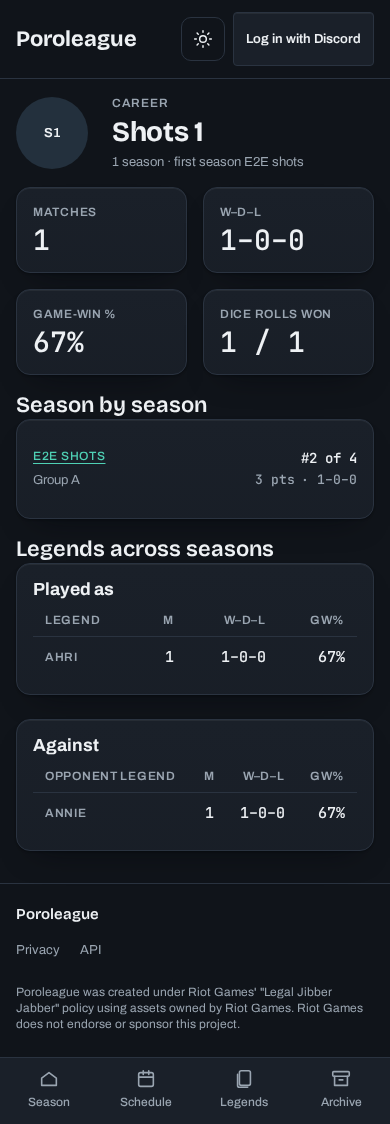
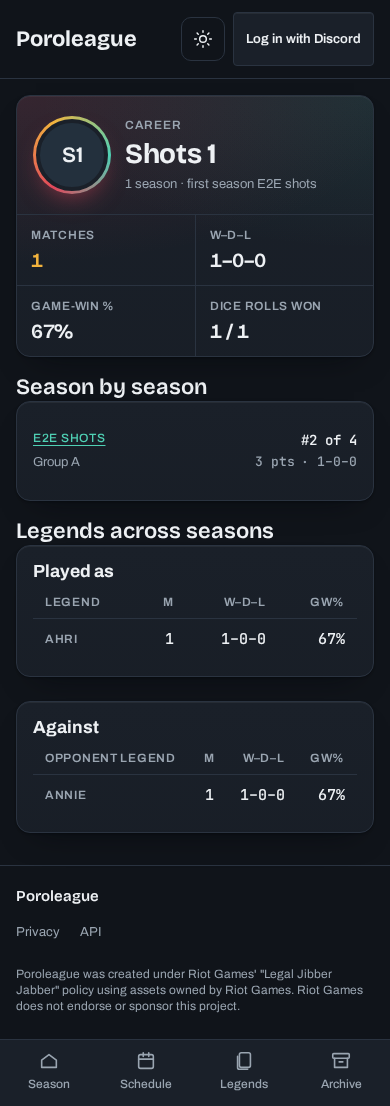
feat(players): give the career page the player hero card (#306)
Closes #305

> **Updated after review (22 Nov).** Where the text below differs from
this note, this note is right: the card styles already live in app.css
since #302, so this is the career markup, the four-stat variant and
removing the old tile rules. Details, tests and the changed screenshots
are in the latest comment.

Last of the series that replaces
https://github.com/Porobound/poroleague/pull/289 (plan in #293).
**Stacked on #304** (base `feat/303-player-chart`), so the diff is only
this change.

## What changes

The career page (`/players/<id>`) gets the card a player's season page
has since #302: the larger avatar with its ring, the name, and its four
numbers (Matches, W–D–L, Game-win %, Dice rolls won) as one strip in
place of four separate tiles. The group keeps its "Career stats" name. A
player with no reported matches gets the card without the strip, and the
existing note.

**One definition of the card.** Its styles (`.profile`, `.player-head`,
`.ring`, `.stats`, `.stat`) move out of the season player page's
`<style>` block into `app.css`, where they replace the old `.stats` tile
rules, which had no other user. The strip has six stats by default and
four with `.stats-4`. The season player page loses those rules and gains
nothing: it renders the same, and its screenshots are byte-identical.

## Tests

- New `e2e/career.spec.ts`: the name, the seasons line and the four
numbers; a player before a first result; and on a phone, the four
numbers two to a row.
[…]

diff --git a/e2e/career.spec.ts b/e2e/career.spec.ts
@@ -1,0 +1,64 @@
+// The card at the top of a player's career page.
+import { expect, test } from '@playwright/test';
+import { removeSeason, renamePlayer, seedResult, seedSeason } from './db.ts';
+import { player, playerName } from './fixtures.ts';
+
+const page1 = `/players/${player('career', 1)}`;
+
+test.afterAll(() => removeSeason('career'));
+
+test('name, seasons and the four career numbers in one card', async ({ page }) => {
+	// Career 1 won both matches 2–0 and, as player 1 of each, both dice rolls.
+	const [m12, , m13] = seedSeason('career', { publishedRound: 2 });
+	seedResult(m12, 2, 0);
+	seedResult(m13, 2, 0);
+	await page.goto(page1);
+	await expect(
+		page.getByRole('heading', { level: 1, name: playerName('career', 1) })
+	).toBeVisible();
+	await expect(page.getByText('1 season · first season E2E career')).toBeVisible();
+
+	const stats = page.getByRole('group', { name: 'Career stats' });
+	for (const tile of [
+		/Matches\s*2/,
+		/W–D–L\s*2–0–0/,
+		/Game-win %\s*100%/,
+		/Dice rolls won\s*2 \/ 2/
+	])
+		await expect(stats).toContainText(tile);
+	await expect(page.getByRole('heading', { name: 'Season by season' })).toBeVisible();
+});
+
+test('before a first result: the card without numbers, and a note', async ({ page }) => {
+	seedSeason('career', { publishedRound: 1 });
+	await page.goto(page1);
+	await expect(
+		page.getByRole('heading', { level: 1, name: playerName('career', 1) })
+	).toBeVisible();
+	await expect(page.getByRole('group', { name: 'Career stats' })).toHaveCount(0);
+	await expect(page.getByText('No reported matches yet')).toBeVisible();
+});
+
+test.describe('phone', () => {
+	test.use({ viewport: { width: 390, height: 844 }, isMobile: true, hasTouch: true });
+
+	test('the four numbers sit two to a row', async ({ page }) => {
+		const [m12] = seedSeason('career', { publishedRound: 1 });
+		seedResult(m12, 2, 0);
+		await page.goto(page1);
+		const stats = page.getByRole('group', { name: 'Career stats' });
+		const top = async (label: string) => (await stats.getByText(label).boundingBox())!.y;
+		expect(await top('Matches')).toBe(await top('W–D–L'));
+		expect(await top('Game-win %')).toBe(await top('Dice rolls won'));
+		expect(await top('Game-win %')).toBeGreaterThan(await top('Matches'));
+	});
+
+	// Runs last: it renames this spec's player.
+	test('a long name with no spaces wraps inside the card', async ({ page }) => {
+		seedSeason('career', { publishedRound: 1 });
+		renamePlayer(player('career', 1), 'Bartholomewfeatherstonehaughs');
+		await page.goto(page1);
+		const name = (await page.getByRole('heading', { level: 1 }).boundingBox())!;
+		expect(name.x + name.width).toBeLessThanOrEqual(390 - 16);
+	});
+});

diff --git a/src/routes/players/[id]/+page.svelte b/src/routes/players/[id]/+page.svelte
@@ -15,27 +15,36 @@
 </svelte:head>
 
 <div class="page">
-	<section class="player-head">
-		<Avatar name={player.displayName} src={player.avatar} size={72} former={player.former} />
-		<div class="who">
-			<span class="eyebrow">Career</span>
-			<h1 class={[player.former && 'pb-former']}>{player.displayName}</h1>
-			<span class="muted small">{n} season{n === 1 ? '' : 's'} · first season {data.first}</span>
+	<section class="profile">
+		<div class="profile-head">
+			<Avatar name={player.displayName} src={player.avatar} size={96} former={player.former} ring />
+			<div class="who">
+				<span class="eyebrow">Career</span>
+				<h1 class={['profile-name', player.former && 'pb-former']}>{player.displayName}</h1>
+				<span class="muted small">{n} season{n === 1 ? '' : 's'} · first season {data.first}</span>
+			</div>
 		</div>
+		{#if totals.played}
+			<div class="profile-stats profile-stats-4" role="group" aria-label="Career stats">
+				<div class="profile-stat is-lead">
+					<span class="eyebrow">Matches</span><strong>{totals.played}</strong>
+				</div>
+				<div class="profile-stat">
+					<span class="eyebrow">W–D–L</span><strong>{totals.wdl}</strong>
+				</div>
+				<div class="profile-stat">
+					<span class="eyebrow">Game-win %</span><strong>{pct(totals.gwp)}</strong>
+				</div>
+				<div class="profile-stat">
+					<span class="eyebrow">Dice rolls won</span><strong
+						>{data.dice.won} / {data.dice.of}</strong
+					>
+				</div>
+			</div>
+		{/if}
 	</section>
 
-	{#if totals.played}
-		<section class="stats" aria-label="Career stats">
-			<div class="panel"><span class="eyebrow">Matches</span><strong>{totals.played}</strong></div>
-			<div class="panel"><span class="eyebrow">W–D–L</span><strong>{totals.wdl}</strong></div>
-			<div class="panel">
-				<span class="eyebrow">Game-win %</span><strong>{pct(totals.gwp)}</strong>
-			</div>
-			<div class="panel">
-				<span class="eyebrow">Dice rolls won</span><strong>{data.dice.won} / {data.dice.of}</strong>
-			</div>
-		</section>
-	{:else}
+	{#if !totals.played}
 		<div class="empty">
 			<strong>No reported matches yet</strong>
 			<span
@@ -58,18 +67,15 @@
 </div>
 
 <style>
-	.player-head {
-		display: flex;
-		flex-wrap: wrap;
-		gap: 24px;
-		align-items: center;
-	}
 	.who {
 		display: flex;
 		flex-direction: column;
 		gap: 4px;
+		/* Lets a long name wrap inside the card instead of widening this column. */
+		min-width: 0;
 	}
+	/* A long name with no spaces breaks instead of running out of the card. */
 	.who h1 {
-		margin: 0;
+		overflow-wrap: anywhere;
 	}
 </style>

diff --git a/src/app.css b/src/app.css
@@ -480,19 +480,6 @@ html {
 .panel.overdue {
 	border-left: 3px solid var(--signal);
 }
-.stats {
-	display: grid;
-	grid-template-columns: repeat(auto-fit, minmax(160px, 1fr));
-	gap: 16px;
-}
-.stats .panel {
-	display: flex;
-	flex-direction: column;
-	gap: 4px;
-}
-.stats strong {
-	font: 500 28px/32px var(--font-mono);
-}
 
 /* Prose pages rendered from docs/ (rules, privacy, api). */
 .doc ul,
@@ -1040,7 +1027,8 @@ html {
 	}
 }
 
-/* Player card: avatar and name over a strip of numbers. */
+/* Player card, on a player's season page and their career page: avatar and name over a strip
+   of numbers. The strip has six stats by default, four with .profile-stats-4. */
 .profile {
 	position: relative;
 	overflow: hidden;
@@ -1087,6 +1075,9 @@ html {
 	padding: 16px 20px;
 	min-width: 0;
 }
+.profile-stats-4 {
+	grid-template-columns: repeat(4, minmax(0, 1fr));
+}
 .profile-stat + .profile-stat {
 	border-left: 1px solid var(--line);
 }
@@ -1099,15 +1090,15 @@ html {
 .profile-stat.is-lead strong {
 	color: var(--signal);
 }
-/* Narrower: the six stats go three to a row. */
+/* Narrower: six stats go three to a row, then four go two to a row. */
 @media (max-width: 900px) {
-	.profile-stats {
+	.profile-stats:not(.profile-stats-4) {
 		grid-template-columns: repeat(3, minmax(0, 1fr));
 	}
-	.profile-stat:nth-child(4) {
+	.profile-stats:not(.profile-stats-4) .profile-stat:nth-child(4) {
 		border-left: 0;
 	}
-	.profile-stat:nth-child(n + 4) {
+	.profile-stats:not(.profile-stats-4) .profile-stat:nth-child(n + 4) {
 		border-top: 1px solid var(--line);
 	}
 }
@@ -1122,5 +1113,14 @@ html {
 	.profile-stat strong {
 		font-size: 20px;
 		line-height: 26px;
+	}
+	.profile-stats-4 {
+		grid-template-columns: repeat(2, minmax(0, 1fr));
+	}
+	.profile-stats-4 .profile-stat:nth-child(3) {
+		border-left: 0;
+	}
+	.profile-stats-4 .profile-stat:nth-child(n + 3) {
+		border-top: 1px solid var(--line);
 	}
 }

diff --git a/e2e/fixtures.ts b/e2e/fixtures.ts
@@ -46,6 +46,7 @@ export const SEASONS = {
 	heroNew: 'e2e-hero-new',
 	heroLate: 'e2e-hero-late',
 	chart: 'e2e-chart',
+	career: 'e2e-career',
 	shotsEarly: 'spring-2041',
 	shotsHero: 'winter-2040',
 	shots: 'autumn-2039',
